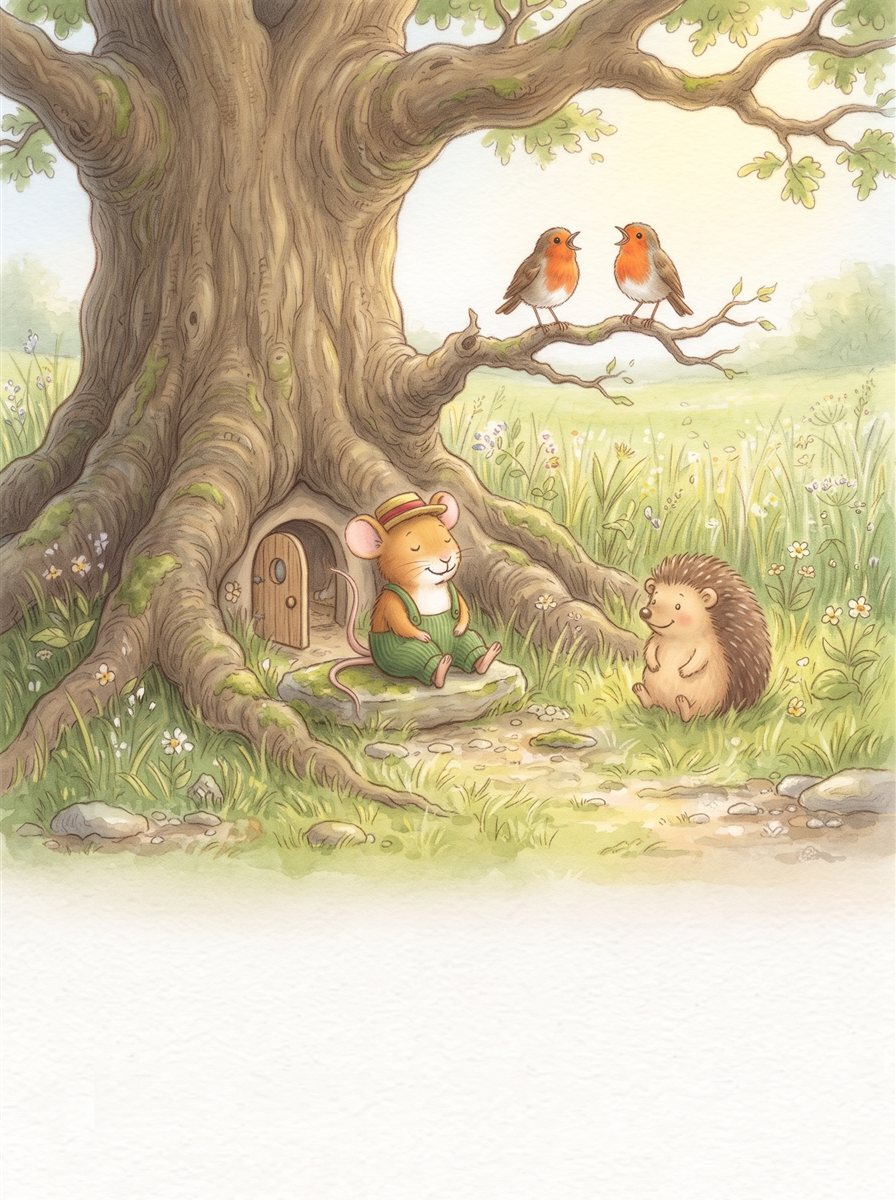
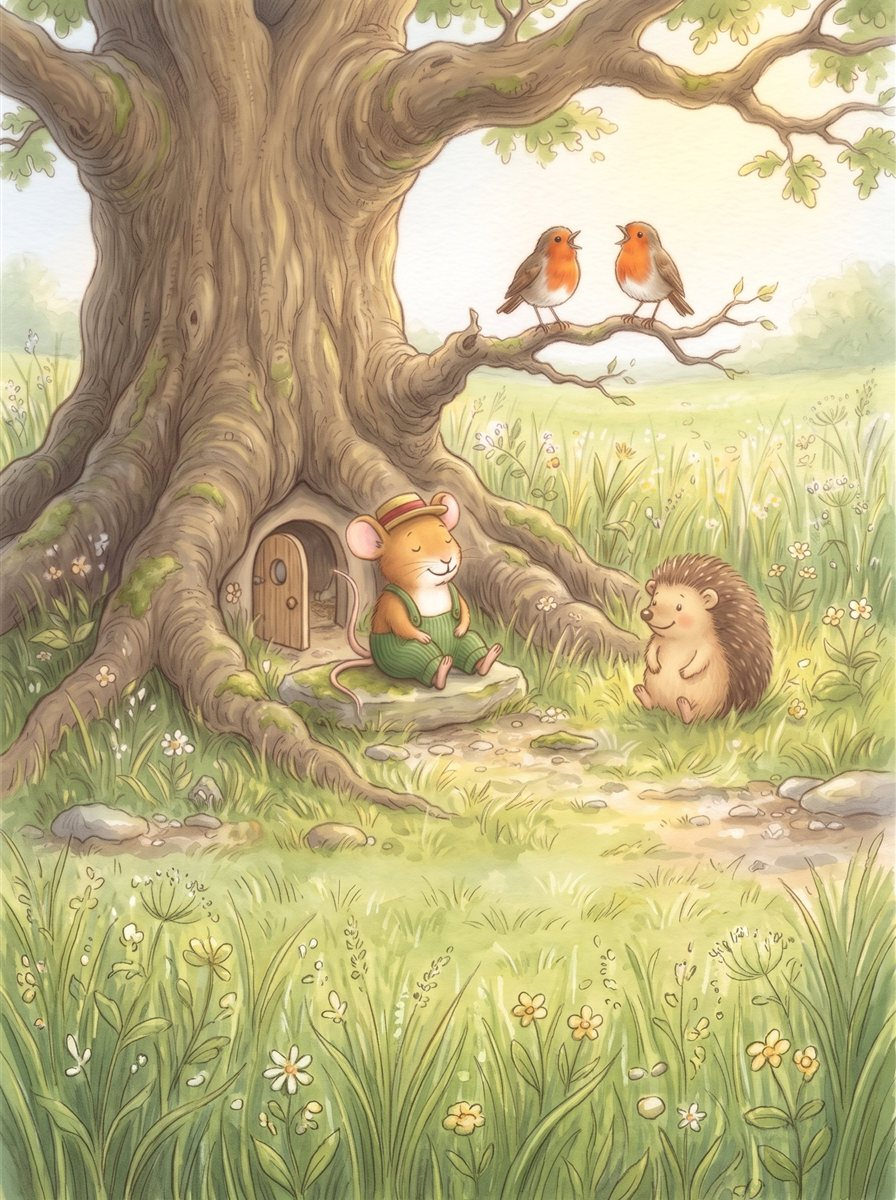
feat(dino): The Town Mouse and the Country Mouse high-res pictures (Slice 350)

diff --git a/content/dino/town-mouse-country-mouse/art.md b/content/dino/town-mouse-country-mouse/art.md
@@ -183,3 +183,20 @@ Model 3.5 Flash-Lite, one picture per chat with the line-up pasted. Drawn 2026-1
 Full review (2026-10-26) failed pages 2, 7, 11 and 15; all four redrawn and accepted: 2 (hedgehog on the ground, two robins alone on the branch, full-bleed; mice sit a little low, feet reach about 83%), 7 (round-topped red door above her ears, one single-pane window, three sparrows at the glass), 11 (hinged open door, stairs right, sash window left, three sparrows, full-bleed; first redraw attempt of 2 was a framed panel and was rejected), 15 (full-bleed, warm smooth-walled room).
 
 Page 2 redrawn a third time at the coordinator's request (mice and hedgehog in the upper 65%, face-to-face hug); accepted.
+
+## Slice 350 high-res run (2026-11-19, part D1)
+
+`high-res/` holds the flat JPEG q85 pack (cover, 1-15 and `back-cover.jpg`, each under 1 MB, made with `prepare-story-pictures.ps1 -HighRes`) and `contact-sheet.jpg`. The untouched Gemini downloads (1792x2400, 2.7-3.6 MB each, plus the untouched back cover) are kept in the scratchpad folder `C:/Users/ashka/AppData/Local/Temp/claude/717394277bc5a198/c1bcd59c-ab93-4eda-a774-ce8a5778c961/scratchpad/tm/final/` (candidates and recovered chat files beside it in `tm/new/`, `tm/keep/`).
+- **Recovered from the Gemini history, untouched** (the accepted pictures, each matched to its app picture by pixel comparison, difference under 0.5), chat id and size: cover 4c644fd4e7394418 (3424366 B), 2 263e697d0cab39d0 (3548750), 7 808771f706eec64c (2824332), 8 cae9ed1242976abb (2903210), 9 bcfaca0efa320721 (2739588), 10 831214fafc43dece (3184923), 11 c3a5235b54c80572 (3043036), 12 b96d2968668299e4 (2985098), 15 aac5493d1c156e14 (2982794).
+- **Redrawn on 4 Hydrogen** (the user's pick of 2026-11-19; Gemini no longer offers 3.1 Pro), one new chat each, full bleed, as copies of the accepted picture (the originals of 1, 3, 4 and 14 were not in the history, so the app picture was the reference): 1 chat 55c43b8bb9e3c758 (3296240 B, try 1), 3 511ecbe02d0198c3 (3386161, try 1), 4 6dad18ea3279a87b (3201585, try 1), 5 6ccb019f2263e701 (3439702, try 1), 6 13be0f970b1bf14d (3245488, try 1), 13 c6dbc36df2b81203 (3045776, try 3 of 3), 14 19cd2d53fe026806 (3258271, try 1). Each small copy was checked for counts, outfits, limbs, no words, scene to the bottom edge and line70.
+- **For the user:** page 13's front hoof tip reaches about 74% (line 73%) in all three tries, since Hydrogen keeps the accepted composition; try 3 kept because its bottom is full cobbles (try 2 had a washed-out bottom). Page 14's hedgehog nose touches the 73% line. Pages 2 and 8 (not on the fix list, kept as accepted) still have a plain flat strip at the bottom (2 green, 8 beige).
+
+## Reviewer, 2026-11-19 (Slice 350 part D2, full mode, high-res)
+
+**PASS.** The `dino-story-reviewer` checked the cover, pages 1-15 and the back cover. It used small copies and line70 overlays made from the untouched originals in `tm/final/`, plus full-size crops of page 13's hoof and page 14's hedgehog. It also checked that the repo's `high-res/` files are the same pictures: all 17 are 1792x2400, every file is under 1 MB, and the pixel difference is 0.16-0.27 on a 0-255 scale.
+- **The fix pages (1, 3, 4, 5, 6, 13, 14)** now run the scene to the bottom edge with grass, lane, cobbles or roots, and none has a white strip. Each is a faithful copy of its accepted app picture, checked side by side. Counts, outfits, limbs, props and time of day are all right, and none has words.
+- **Page 13:** the horse's planted front hoof ends at about 74.4% (measured on a full-size crop), 1.4 points past the 73% line. The horse has four legs. The slice's D1 rule allows at most 3 tries and then the best is kept and listed, so the page is listed for the user, not redrawn.
+- **Page 14:** the hedgehog's nose sits exactly on the 73% line (72.9%) and is not inside the strip, so it passes.
+- **Accepted pages listed for the user (never redrawn without their word):** on the cover the hedgehog sits mostly in the bottom 27%. On page 11 both mice's legs and Town Mouse's dress are below the line, at about 80%. On pages 2 and 7 the feet touch the line. Pages 2 and 8 have a plain flat strip at the bottom.
+- **Consistency notes (accepted pictures, not blocking):** the mouse-hole door moves between pictures. It is in the roots on page 1, under the flat stone on page 2, a large door in the trunk on page 5, and a high round cutaway room on page 14. The kitchen window has crossbars on pages 8 and 9, but the plan asks for a single pane.
+- **Back cover:** both mice are whole and dressed as in the book, there are no words, the middle is open sky for the credits, and it matches the app's `back-cover.jpg`. `book.json`'s credit (`storyBy` Aesop, `retold`) and its `namesByLanguage` spellings in all 14 languages are correct. The back cover was not checked in the running app.
